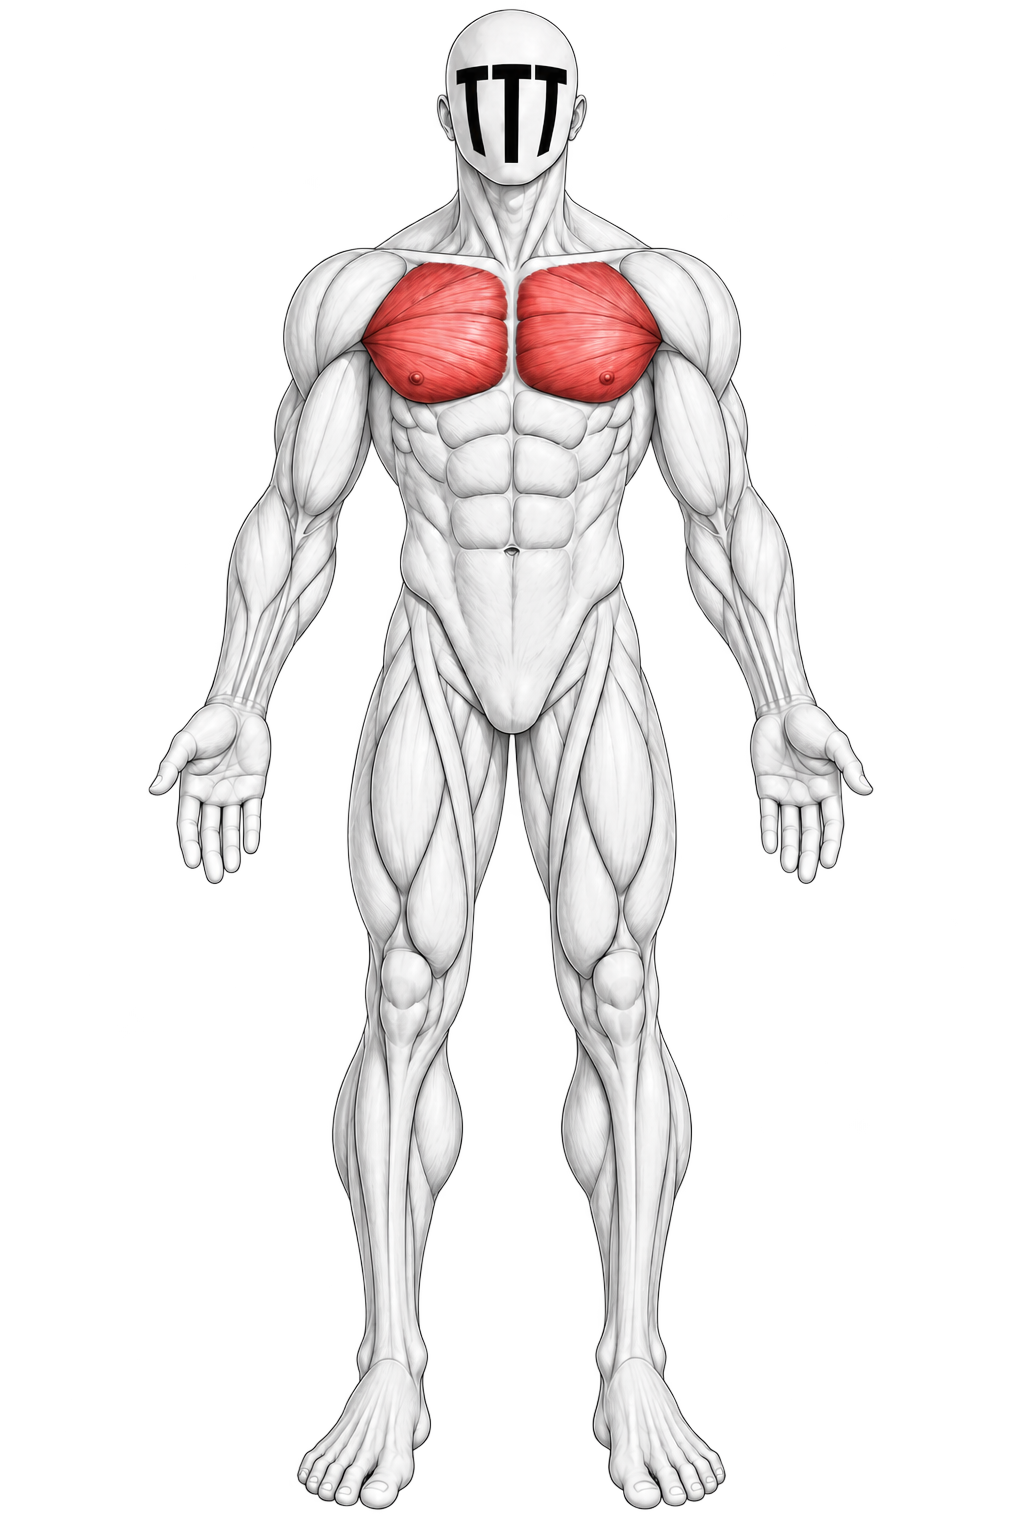
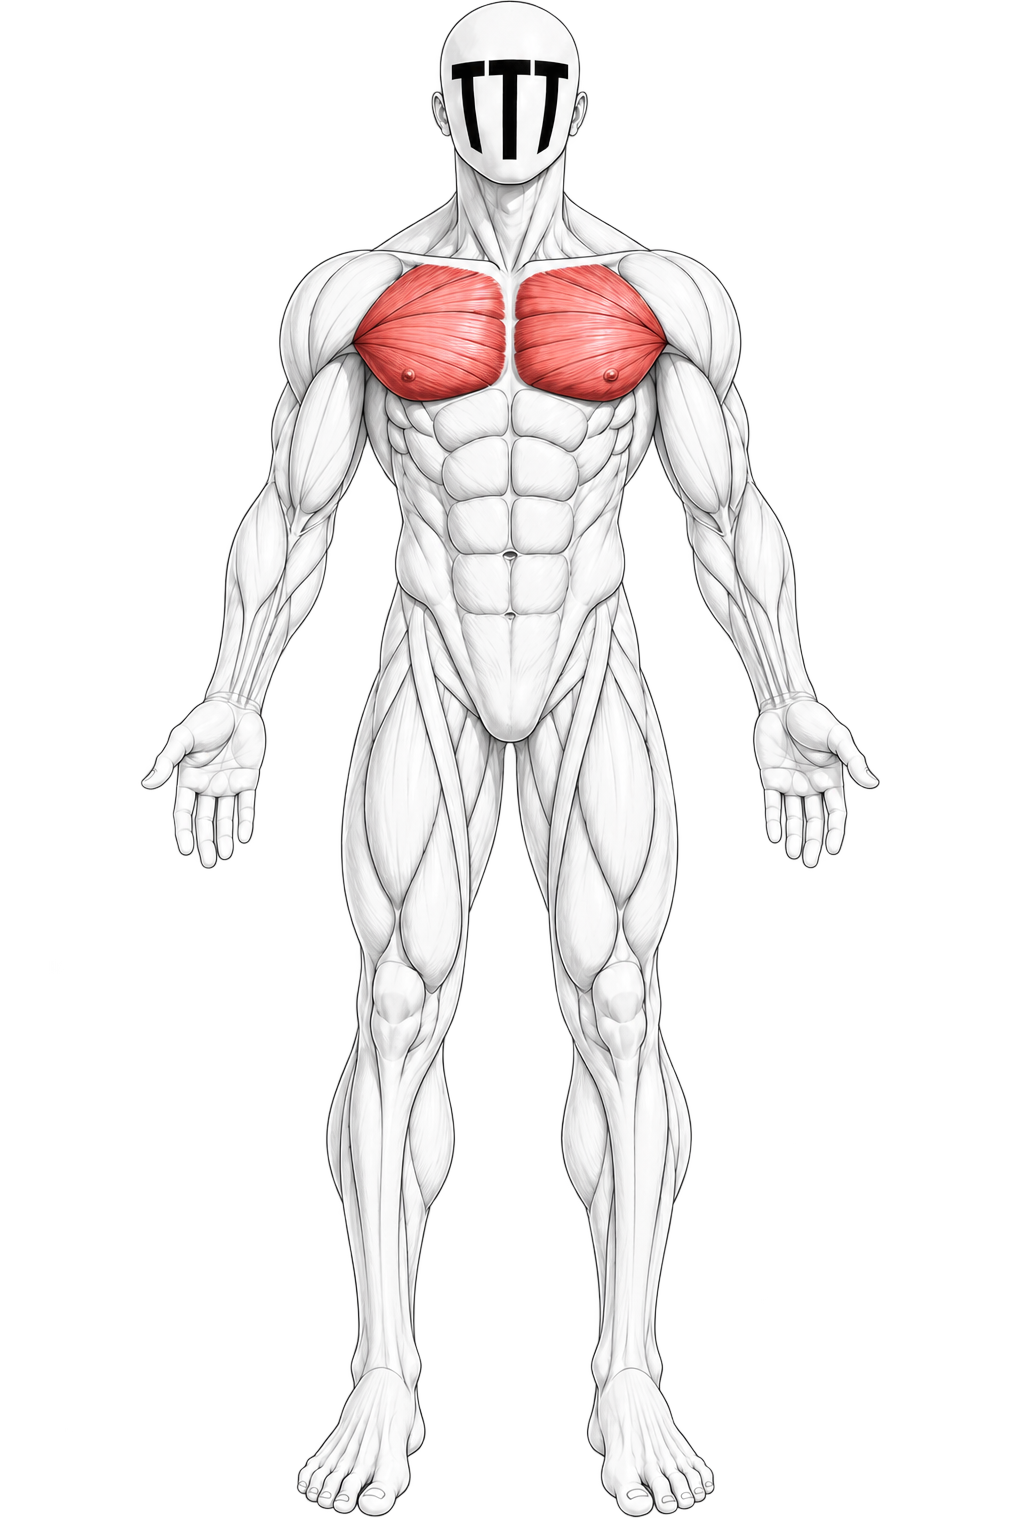
가슴 강조 이미지 교체 + 부위 탭 토글(재클릭 시 선택취소) + 초기 기본 상태 변경 (#461)
가슴 강조 이미지를 사용자가 새로 제공한 이미지로 교체.

부위 선택 동작을 토글식으로 변경 — 하단 부위 탭에서 이미 선택된 부위를
다시 누르면 선택이 취소되어 기본 상태(어떤 부위도 선택되지 않은 상태)로
돌아감. 이에 맞춰 muscleFinderActivePart의 기본값을 "chest"에서
null(선택 없음)로 바꾸고, 앱 첫 진입 시에도 하단 탭 전부 미선택 +
인체 이미지엔 선/점/콜아웃만 보이는 중립 상태로 시작하도록 변경(기존엔
가슴이 기본 선택되어 강조 이미지로 바로 시작했음). 선택 취소 시 우측
하단 세부 부위 목록 패널도 함께 비워지도록 처리.

Changed region(s): [[0.125, 0.0, 0.875, 1.0]]

diff --git a/index.html b/index.html
@@ -8335,7 +8335,7 @@ html.light-mode-on #weightModal .food-modal-form label {
 
       <!-- 🔥 부위 이름표(정면) -->
       <div class="muscle-finder-callouts" id="muscleFinderCalloutsFront">
-        <button type="button" class="muscle-finder-callout muscle-finder-callout-left active" data-part="chest" style="top:24%;">가슴</button>
+        <button type="button" class="muscle-finder-callout muscle-finder-callout-left" data-part="chest" style="top:24%;">가슴</button>
         <button type="button" class="muscle-finder-callout muscle-finder-callout-right" data-part="shoulder" style="top:20%;">어깨</button>
         <button type="button" class="muscle-finder-callout muscle-finder-callout-left" data-part="arm" style="top:42%;">팔</button>
         <button type="button" class="muscle-finder-callout muscle-finder-callout-right" data-part="back" style="top:38%;">등</button>
@@ -8344,7 +8344,7 @@ html.light-mode-on #weightModal .food-modal-form label {
       </div>
       <!-- 🔥 부위 이름표(후면) -->
       <div class="muscle-finder-callouts hidden" id="muscleFinderCalloutsBack">
-        <button type="button" class="muscle-finder-callout muscle-finder-callout-left active" data-part="chest" style="top:24%;">가슴</button>
+        <button type="button" class="muscle-finder-callout muscle-finder-callout-left" data-part="chest" style="top:24%;">가슴</button>
         <button type="button" class="muscle-finder-callout muscle-finder-callout-right" data-part="shoulder" style="top:20%;">어깨</button>
         <button type="button" class="muscle-finder-callout muscle-finder-callout-left" data-part="arm" style="top:42%;">팔</button>
         <button type="button" class="muscle-finder-callout muscle-finder-callout-right" data-part="back" style="top:38%;">등</button>
@@ -8362,7 +8362,7 @@ html.light-mode-on #weightModal .food-modal-form label {
 
     <!-- 🔥 부위 선택 버튼(최하단) -->
     <div class="muscle-finder-cards">
-      <button type="button" class="muscle-finder-card active" data-part="chest">가슴</button>
+      <button type="button" class="muscle-finder-card" data-part="chest">가슴</button>
       <button type="button" class="muscle-finder-card" data-part="back">등</button>
       <button type="button" class="muscle-finder-card" data-part="shoulder">어깨</button>
       <button type="button" class="muscle-finder-card" data-part="arm">팔</button>
@@ -10041,7 +10041,7 @@ const settingsHeaderName = document.getElementById("settingsHeaderName");
 const settingsHeaderSub = document.getElementById("settingsHeaderSub");
 
 /* ✅ 앱 버전 정의 — 의미 있는 수정/배포마다 올림(설정 화면에서 "최신 버전 받았는지" 확인용) */
-const APP_VERSION = "0.8.80";
+const APP_VERSION = "0.8.81";
 const appVersionDisplay = document.getElementById("appVersionDisplay");
 if (appVersionDisplay) {
   appVersionDisplay.textContent = APP_VERSION;
@@ -12655,16 +12655,20 @@ document.querySelectorAll(".muscle-finder-face-btn").forEach(btn => {
   btn.addEventListener("click", () => goToMuscleFace(btn.dataset.face));
 });
 
-// 🔥 최하단 부위 버튼과 인체 이미지 옆 이름표(콜아웃) — 같은 data-part끼리 항상 같이 강조됨
-let muscleFinderActivePart = "chest"; // 지금 선택된 부위(FRONT/BACK 전환 시 세부 목록 재렌더링에 씀)
+// 🔥 최하단 부위 버튼과 인체 이미지 옆 이름표(콜아웃) — 같은 data-part끼리 항상 같이 강조됨.
+// 처음 진입 시엔 아무 부위도 선택 안 된 기본 상태(하단 탭 전부 미선택, 이미지엔
+// 선/점/콜아웃만 보임) — 이미 선택된 부위를 다시 누르면 선택 취소되어 이 기본
+// 상태로 되돌아감(토글).
+let muscleFinderActivePart = null; // 지금 선택된 부위(null=아무것도 선택 안 됨)
 function setActiveMusclePart(key){
+  const nextKey = (key === muscleFinderActivePart) ? null : key; // 🔥 같은 부위 재클릭 시 선택 취소
   // 🔥 하단 부위 탭(.muscle-finder-card)은 강조 이미지 사용 여부와 무관하게 항상 유지됨
-  document.querySelectorAll(".muscle-finder-card").forEach(c => c.classList.toggle("active", c.dataset.part === key));
-  document.querySelectorAll(".muscle-finder-callout").forEach(c => c.classList.toggle("active", c.dataset.part === key));
-  document.querySelectorAll(".muscle-finder-line, .muscle-finder-dot").forEach(el => el.classList.toggle("active", el.dataset.part === key));
-  muscleFinderActivePart = key;
+  document.querySelectorAll(".muscle-finder-card").forEach(c => c.classList.toggle("active", c.dataset.part === nextKey));
+  document.querySelectorAll(".muscle-finder-callout").forEach(c => c.classList.toggle("active", c.dataset.part === nextKey));
+  document.querySelectorAll(".muscle-finder-line, .muscle-finder-dot").forEach(el => el.classList.toggle("active", el.dataset.part === nextKey));
+  muscleFinderActivePart = nextKey;
   refreshMuscleFinderView();
-  renderMuscleSubparts(key);
+  renderMuscleSubparts(nextKey);
 }
 document.querySelectorAll(".muscle-finder-card, .muscle-finder-callout").forEach(el => {
   el.addEventListener("click", () => setActiveMusclePart(el.dataset.part));
@@ -12687,10 +12691,16 @@ const MUSCLE_SUBPARTS = {
   core:     { label: "코어", items: ["복직근", "외복사근", "내복사근", "복횡근"] },
 };
 function renderMuscleSubparts(key){
-  const info = MUSCLE_SUBPARTS[key];
   const titleEl = document.getElementById("muscleFinderSubpartsTitle");
   const listEl = document.getElementById("muscleFinderSubpartsList");
-  if (!info || !titleEl || !listEl) return;
+  if (!titleEl || !listEl) return;
+  if (!key) { // 🔥 선택 취소된 기본 상태 — 세부 목록 패널 비움
+    titleEl.textContent = "";
+    listEl.innerHTML = "";
+    return;
+  }
+  const info = MUSCLE_SUBPARTS[key];
+  if (!info) return;
   const items = info.items || info[muscleFinderFace] || [];
   titleEl.textContent = info.label;
   listEl.innerHTML = "";
@@ -12700,8 +12710,8 @@ function renderMuscleSubparts(key){
     listEl.appendChild(li);
   });
 }
-renderMuscleSubparts("chest"); // 기본 활성 부위(가슴)로 초기 표시
-refreshMuscleFinderView(); // 🔥 초기 이미지/오버레이 상태도 위와 동일한 로직으로 결정(기본 부위인 가슴은 강조 이미지가 있어 처음부터 그 이미지로 시작)
+renderMuscleSubparts(muscleFinderActivePart); // 🔥 초기엔 선택된 부위가 없어(null) 세부 목록 패널도 비어있는 채로 시작
+refreshMuscleFinderView(); // 🔥 초기 이미지/오버레이 상태도 위와 동일한 로직으로 결정 — 선택된 부위가 없으므로 기본 인체 이미지 + 선/점/콜아웃으로 시작
 
 /* 🔥 맨몸운동 첫 화면(메뉴)은 스와이프로 못 나가게(오탈출 방지) — 상단 X 버튼으로만 닫힘.
    그 안의 하위 화면(← 버튼이 있는 화면들)은 아래에서 왼쪽 끝→오른쪽 스와이프로 뒤로가기 가능 */
